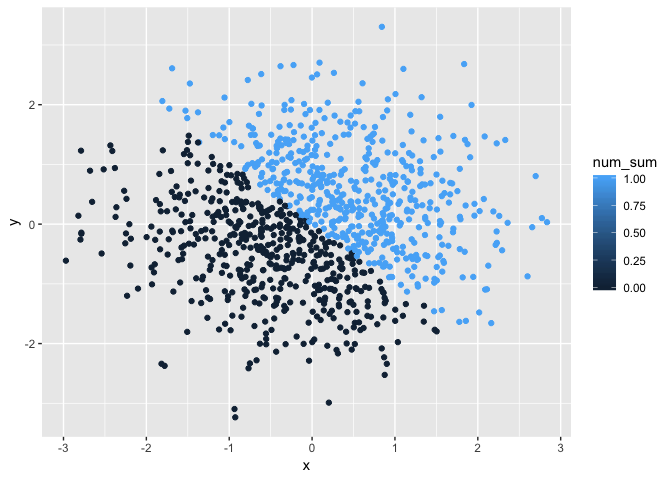
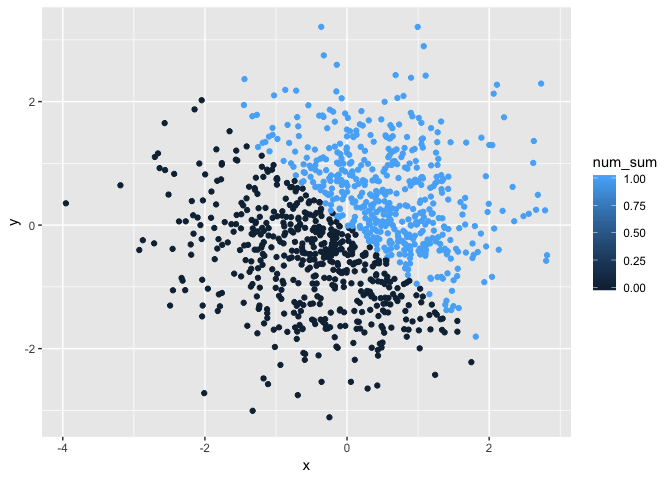
Finalized homework rmd.

diff --git a/p8105_hw1_dk2759.md b/p8105_hw1_dk2759.md
@@ -1,7 +1,7 @@
 p8105\_homework\_1
 ================
 Darwin Keung
-2018-09-19
+2018-09-21
 
 ## Homework 1
 
@@ -28,14 +28,14 @@ vector
 variable_df = tibble(
   vec_random = runif(10 , min = 0, max = 5),
   vec_logical = vec_random > 2,
-  vec_char = c("A", "B", "C", "D", "E", "F", "G", "H", "I", "J"),
-  vec_factor = factor(c("h", "e", "l", "l", "o", "w", "o", "r", "l", "d"))
+  vec_char = c("Never", "Gonna", "Give", "You", "Up", "Never", "Gonna", "Let", "You", "Down"),
+  vec_factor = factor(c("Never", "Gonna", "Make", "You", "Cry", "Never", "Gonna", "Say", "Good", "Bye"))
 )
 ## Taking the means of each variable in dataframe
 mean(variable_df$vec_random)
-## [1] 3.0696
+## [1] 2.235226
 mean(variable_df$vec_logical)
-## [1] 0.7
+## [1] 0.5
 mean(variable_df$vec_char)
 ## Warning in mean.default(variable_df$vec_char): argument is not numeric or
 ## logical: returning NA
@@ -70,7 +70,7 @@ vec_char_to_factor = as.factor(variable_df$vec_char)
 as.numeric(vec_char_to_factor)
 ```
 
-    ##  [1]  1  2  3  4  5  6  7  8  9 10
+    ##  [1] 5 3 2 7 6 5 3 4 7 1
 
 ``` r
 ## convert factor variable from factor to character to numeric. 
@@ -118,10 +118,10 @@ p2_df = tibble(
 
   - The above dataframe, “p2\_df” is 1000, 5
 
-  - The mean is -0.0058258 and the median is 0.0110934
+  - The mean is 0.0153779 and the median is 0.0574352
 
   - The proportion of cases for which the logical vector is `TRUE` is
-    51.2
+    49.6
 
 <!-- end list -->
 
